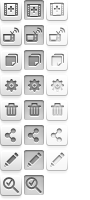
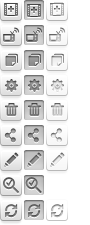
Add youtube sync program item styles.
git-svn-id: http://everest.teltel.com:8080/repos/misc/trunk/ui/cms@5640 a0a5f996-2bb4-401c-8778-395c3c01700f

diff --git a/index.html b/index.html
@@ -212,18 +212,18 @@
                                                         </div>
                                                         <div class="tip-bottom"></div>
                                                     </div>
-                                                    <p class="time">Update: 2012-10-22 18:02</p>
+                                                    <p class="time">Update: 2012-10-22 18:02<img src="images/icon_youtube_sm.png"></p>
                                                     <div class="func-btns">
                                                         <div class="btn-wrap enable">
                                                             <ul>
                                                                 <li>
-                                                                    <a href="epcurate-curation.html?cid=8758" class="add">
-                                                                        Add
+                                                                    <a href="epcurate-curation.html?cid=8758" class="sync">
+                                                                        Sync
                                                                         <span class="tip">
                                                                             <img src="images/bg_tip_bottom.png" alt="">
                                                                             <span class="tip-left">
                                                                                 <span class="tip-right">
-                                                                                    <span class="tip-middle">Curate a new episode</span>
+                                                                                    <span class="tip-middle">Sync</span>
                                                                                 </span>
                                                                             </span>
                                                                         </span>

diff --git a/stylesheets/channel.css b/stylesheets/channel.css
@@ -337,6 +337,11 @@ body.mac #title-func h2 {
     font-size: 13px;
 }
 
+#channel-list li .func-wrap p.time img {
+    margin-left: 5px;
+    vertical-align: bottom;
+}
+
 #channel-list li .func-wrap .func-btns {
     position: absolute;
     bottom: 10px;
@@ -465,6 +470,20 @@ body.mac #title-func h2 {
 
 #channel-list li .func-wrap .func-btns .btn-wrap ul li a.url:hover {
     background-position: -23px -122px;
+}
+
+#channel-list li .func-wrap .func-btns .btn-wrap ul li a.sync {
+    background-position: 0 -197px;
+}
+
+#channel-list li .func-wrap .func-btns .btn-wrap ul li a.sync.disable,
+#channel-list li .func-wrap .func-btns .btn-wrap ul li a.sync.disable:hover {
+    background-position: -46px -197px;
+    cursor: default;
+}
+
+#channel-list li .func-wrap .func-btns .btn-wrap ul li a.sync:hover {
+    background-position: -23px -197px;
 }
 
 #channel-list li .func-wrap .func-btns .btn-wrap ul li a .tip {
